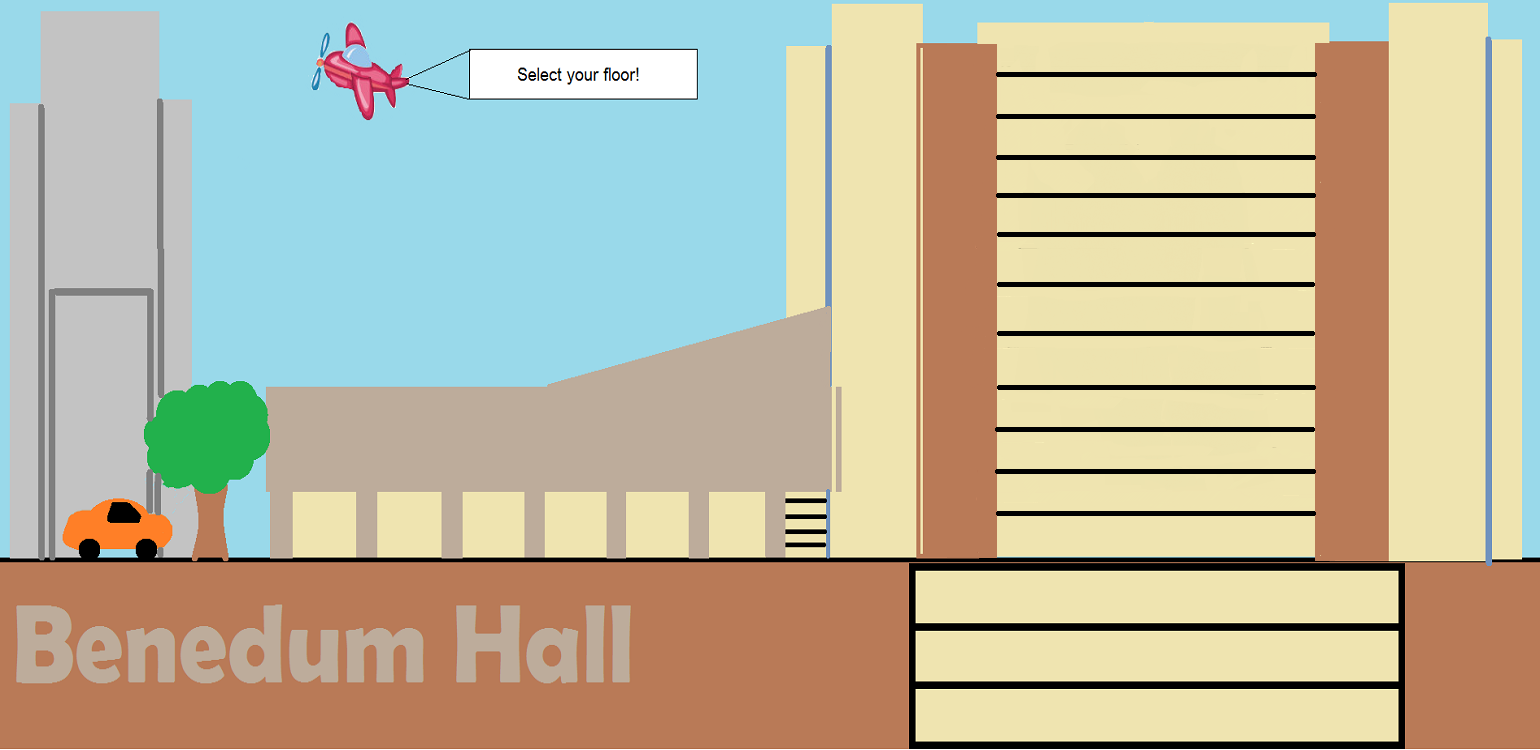
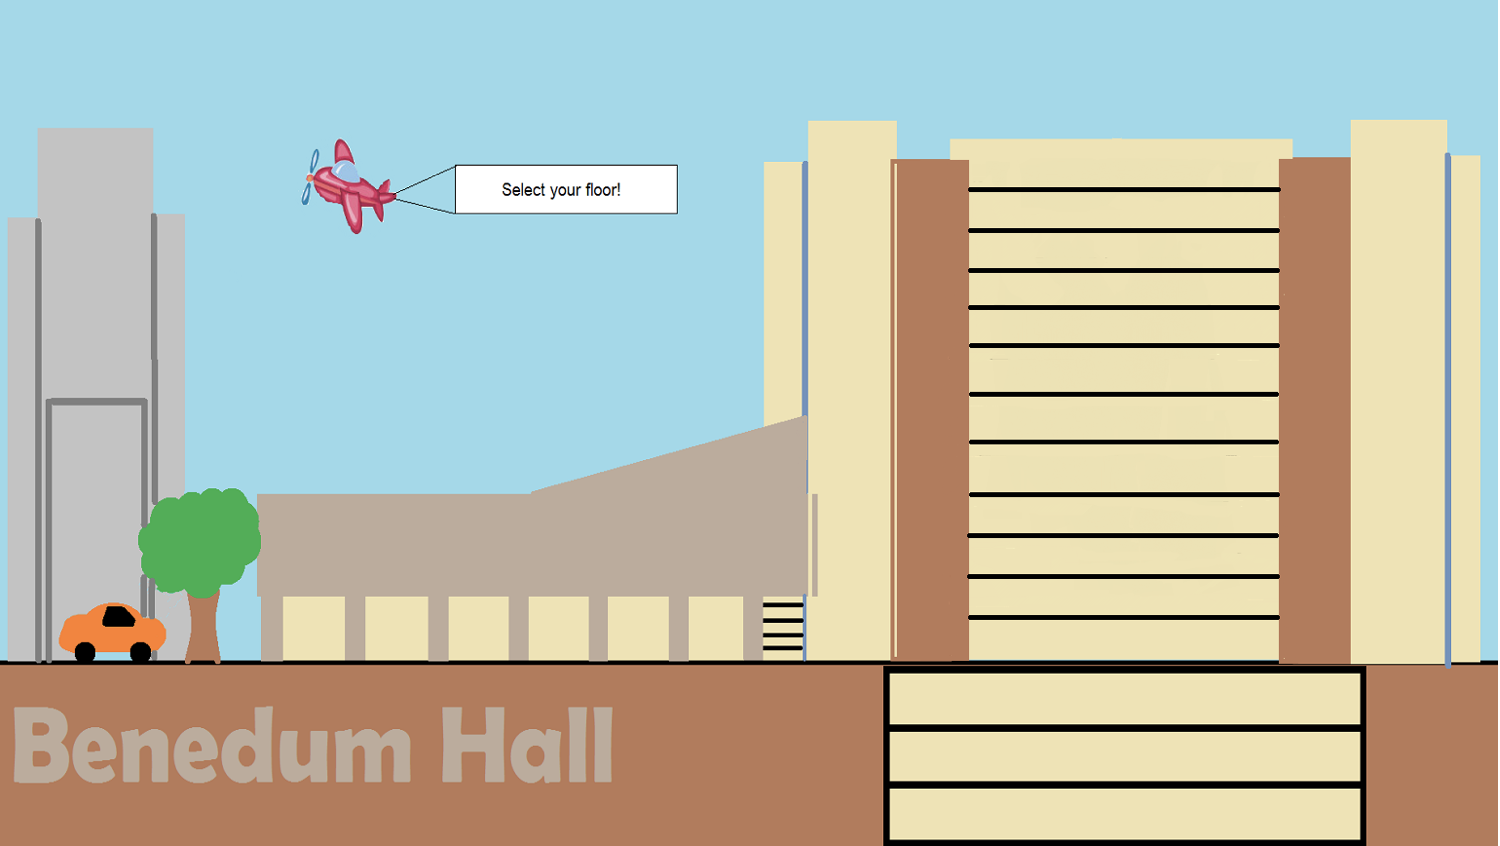
made small changes

Changed region(s): [[0.0, 0.0, 1.0, 1.0], [0.644, 0.3067, 0.8587, 0.644], [0.184, 0.0307, 0.46, 0.276]]

diff --git a/User_Interface/Room_Lookup/base.html b/User_Interface/Room_Lookup/base.html
@@ -4,7 +4,12 @@
 <head>
 <style>
 body {
-    background-image: url(menu.png);
+
+   background: url(menu.png) no-repeat;
+    -webkit-background-size: cover; /* For WebKit*/
+    -moz-background-size: cover;    /* Mozilla*/
+    -o-background-size: cover;      /* Opera*/
+    background-size: cover;  
 }
 
 input {
@@ -23,25 +28,25 @@ font-size: 150%;
 <td style="width:100%">
 
 <form action="floorSB.html">
-<input style="position:absolute; top:94.3%; right: 7%;" type="submit" value="Sub Basement">
+<input style="position:absolute; top:90%; right: 19%;" type="submit" value="Sub Basement">
 </form>
 
 <br>
 
 <form action="floorB.html">
-<input style="position:absolute; top:86.5%; right: 9.2%;" type="submit" value="Basement">
+<input style="position:absolute; top:84%; right: 20.6%;" type="submit" value="Basement">
 </form>
 
 <br>
 
 <form action="floorG.html">
-<input style="position:absolute; top:78.4%; right: 8%;" type="submit" value="Ground Floor">
+<input style="position:absolute; top:77.5%; right: 19.6%;" type="submit" value="Ground Floor">
 </form>
 
 <br>
 
 <form action="floor1.html">
-<input style="position:absolute; top:70.2%; right: 8.3%;" type="submit" value="Floor 1">
+<input style="position:absolute; top:70.5%; right: 22.5%;" type="submit" value="Floor 1">
 </form>
 
 <br>
